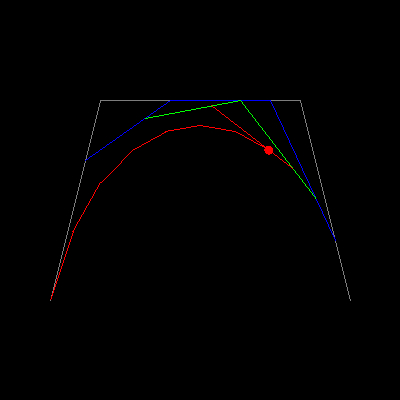
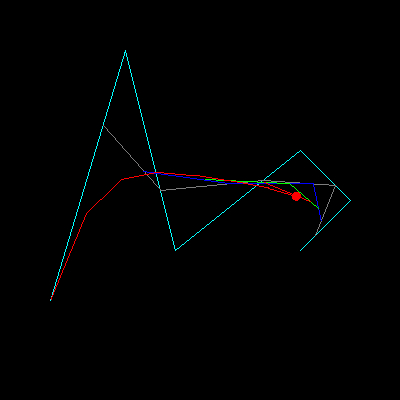
Bezier curve

diff --git a/Canvas/BezierCurve/bezierCurve.js b/Canvas/BezierCurve/bezierCurve.js
@@ -8,6 +8,14 @@ let data = image.data;
 
 let downloader = new DOWNLOADER(canvas);
 
+let addButton = document.getElementById("addButton");
+addButton.addEventListener("click", function() { 
+    new CURVESETTING();
+    main();
+}, false);
+
+let bezierCurveSettingsContainer = document.getElementById("bezierCurveSettingsContainer");
+
 function timelapsee(fArguments){
     let howMenySteps = parseInt(fArguments[0].value);
     let timelapseTValue = parseFloat(fArguments[1].value) / 100;
@@ -38,10 +46,9 @@ let timelapseInputData = {
             "tValueMax": {"element": "input", "type": "number", "value": 100},
         },
     ]
-}
+};
 
 let timelapse = downloader.timelapse(timelapseInputData);
-
 
 let downloadImageButton = document.getElementById("downloadImage");
 downloadImageButton.addEventListener("click", function() { downloader.downloadImage(); }, false);
@@ -61,9 +68,6 @@ t.addEventListener("input", () => {
 }, false);
 
 let tText = document.getElementById("tText");
-
-function updateFloatNum(value, numberEl){
-}
 
 function getMultitplyOfTen(number){
     if(number == 0){
@@ -104,7 +108,6 @@ function clear(){
         }
     }
 }
-
 
 let cenX = 0;
 let cenY = 0;
@@ -300,7 +303,8 @@ function drawBezierCurve(t, points, boolDrawLines = false){
 
     if(boolDrawLines == true){
         //console.log(points);
-        drawLines(points, colors[points.length - 2]);
+        let colorIndex = (points.length - 2) % colors.length;
+        drawLines(points, colors[colorIndex]);
     }
 
     let newPoints = [];
@@ -315,15 +319,109 @@ function drawBezierCurve(t, points, boolDrawLines = false){
     return drawBezierCurve(t, newPoints, boolDrawLines);
 }
 
-let points = [[50, 300], [100, 100], [200, 100], [300, 100], [350, 300]];
+
+class CURVESETTING{
+    constructor(x = (canvas.width / 2), y = (canvas.height / 2)){
+        this.bezierCurveSetting = null;
+        this.input = [];
+
+        this.xValue;
+        this.yValue;
+
+        this.draw(x, y);
+    }
+
+    draw(x = 0, y = 0){
+        this.bezierCurveSetting = document.createElement("div");
+        this.bezierCurveSetting.className = "bezierCurveSetting";
+
+        let settingSameLine = document.createElement("div");
+        settingSameLine.className = "settingSameLine";
+        
+        for(let i = 0; i < 2; i++){
+            let text = (i == 0) ? "X: " : "Y: ";
+            let textEl = document.createElement("p");
+            textEl.innerHTML = text;
+
+            let input = document.createElement("input");
+            input.type = "number";
+            input.min = "0";
+            input.max = `${(i == 0) ? canvas.width : canvas.height}`;
+            input.value = (i == 0) ? x : y;
+
+            this.input.push(input);     
+            input.addEventListener("input", () => { 
+                this.xValue = parseInt(this.input[0].value);
+                this.yValue = parseInt(this.input[1].value);
+                // console.log(this.xValue, this.yValue);
+                main();
+            });
+
+            settingSameLine.appendChild(textEl);
+            settingSameLine.appendChild(input);
+
+        }
+
+        let buttonsSettingSameLine = document.createElement("div");
+        buttonsSettingSameLine.className = "settingSameLine";
+        buttonsSettingSameLine.style.display = "flex";
+        buttonsSettingSameLine.style.justifyContent = "flex-end";
+
+        let removeButton = document.createElement("button");
+        removeButton.className = "removeButton";
+        removeButton.addEventListener("click", () => { 
+            bezierCurveSettingsContainer.removeChild(this.bezierCurveSetting); 
+            main();
+        });
+ 
+        // let okButton = document.createElement("button");
+        // okButton.className = "okButton";
+        // okButton.addEventListener("click", () => { 
+        //     this.xValue = parseInt(this.input[0].value);
+        //     this.yValue = parseInt(this.input[1].value);
+        //     // console.log(this.xValue, this.yValue);
+        //     main();
+        // });
+        
+        let freeLine = document.createElement("div");
+        freeLine.className = "fS8";
+
+        // buttonsSettingSameLine.appendChild(okButton);
+        buttonsSettingSameLine.appendChild(removeButton);
+
+        this.bezierCurveSetting.appendChild(settingSameLine);
+        this.bezierCurveSetting.appendChild(freeLine);
+        this.bezierCurveSetting.appendChild(buttonsSettingSameLine);
+
+        bezierCurveSettingsContainer.appendChild(this.bezierCurveSetting);
+    }
+}
+
+function getBezierCurveSettings(){
+    let points = [];
+    let bezierCurveSettings = document.getElementsByClassName("bezierCurveSetting");
+
+    for(let i = 0; i < bezierCurveSettings.length; i++){
+        let x = parseInt(bezierCurveSettings[i].children[0].children[1].value);
+        let y = parseInt(bezierCurveSettings[i].children[0].children[3].value);
+        points.push([x, y]);
+    }
+
+    return points;
+}
 
 function main(){
     clear();
-    
+
+    let points = getBezierCurveSettings(); 
+    // console.log(points);
+
     let curvePoints = [];
+
     for(let _t = 0; _t < tValue; _t += 0.1){
         curvePoints.push(drawBezierCurve(_t, points));
     }
+
     let lastPoint = drawBezierCurve(tValue, points, true);
     curvePoints.push(lastPoint);
     drawPoint(lastPoint[0], lastPoint[1], [255, 0, 0, 255]);
@@ -333,5 +431,18 @@ function main(){
 
     swapBuffer();
 }
+
+// new CURVESETTING(50, 300);
+// new CURVESETTING(100, 100);
+// new CURVESETTING(200, 100);
+// new CURVESETTING(300, 100);
+// new CURVESETTING(350, 300);
+
+new CURVESETTING(50, 300);
+new CURVESETTING(125, 50);
+new CURVESETTING(175, 250);
+new CURVESETTING(300, 150);
+new CURVESETTING(350, 200);
+new CURVESETTING(300, 250);
 
 main();

diff --git a/Canvas/BezierCurve/bezierCurve.html b/Canvas/BezierCurve/bezierCurve.html
@@ -12,6 +12,7 @@
     <link rel="stylesheet" type="text/css" href="/text.css">
     <link rel="stylesheet" type="text/css" href="/style.css">
     <link rel="stylesheet" type="text/css" href="/Canvas/canvas.css">
+    <link rel="stylesheet" type="text/css" href="bezierCurve.css">
     <script src="/Menu/dropDownMenu.js"></script>
 </head>
 <body>
@@ -28,16 +29,31 @@
                     <canvas class="my-canvas" style="background-color:black;" id="my-canvas" width="400" height="400"></canvas>
                     <div class="settings">
                         <div class="canvasButtons" id="canvasButtons">
+                            <button class="addButton" id="addButton"></button>
                             <button class="downloadButton" id="downloadImage"></button>
                             <button class="refreshButton" id="update"></button>
                         </div>
+                        <div class="fS8"></div>
                         <div class="settingSameLine">
                             <p>t: </p>
                             <input type="range" id="t" style="width: 100%;" value="0.70" min="0" max="1" step="0.05">
                             <div id="tText">0.70</div>
                         </div>
-
                         <div class="fS8"></div>
+                        <div class="bezierCurveSettingsContainer" id="bezierCurveSettingsContainer">
+                            <!-- <div class="bezierCurveSetting"> -->
+                            <!--     <div class="settingSameLine"> -->
+                            <!--         <p>X: </p> -->
+                            <!--         <input type="number" value="200" min="0"> -->
+                            <!--         <p>Y: </p> -->
+                            <!--         <input type="number" value="200" min="0"> -->
+                            <!--     </div> -->
+                            <!--     <div class="settingSameLine"> -->
+                            <!--         <button>Save</button> -->
+                            <!--         <button class="removeButton"></button> -->
+                            <!--     </div> -->
+                            <!-- </div> -->
+                        </div>
                     </div>
                 </div>
             </div>

diff --git a/style.css b/style.css
@@ -239,7 +239,7 @@ jumpLink{
     --button-size: 30px;
 }
 
-.refreshButton, .addButton, .removeButton, .downloadButton,
+.refreshButton, .addButton, .removeButton, .okButton, .downloadButton,
 .downloadAllButton, .playButton, .pauseButton, .timelapseButton{
     width: var(--button-size);
     height: var(--button-size);
@@ -254,6 +254,7 @@ jumpLink{
 .refreshButton  { background-image: url("/Images/Icons/refresh.png");  }
 .addButton      { background-image: url("/Images/Icons/plus.png");     }
 .removeButton   { background-image: url("/Images/Icons/minus.png");    }
+.okButton   { background-image: url("/Images/Icons/minus.png");    }
 
 .downloadButton  { background-image: url("/Images/Icons/download.png"); }
 .downloadAllButton  { background-image: url("/Images/Icons/download.png"); background-color: rgb(48, 48, 48); }

diff --git a/Canvas/BezierCurve/bezierCurve.css b/Canvas/BezierCurve/bezierCurve.css
@@ -1,0 +1,18 @@
+.bezierCurveSettingsContainer{
+    width: 100%;
+    max-height: 30vh;
+    overflow-y: scroll;
+}
+
+.bezierCurveSetting{
+    margin: 0px 0px 5px 0px;
+    width: 100%;
+    background-color: rgb(49, 49, 49);
+    padding: 10px;
+    border-radius: 5px;
+    box-sizing: border-box;
+}
+
+.bezierCurveSetting > div > input{
+    width: 50%;
+}
